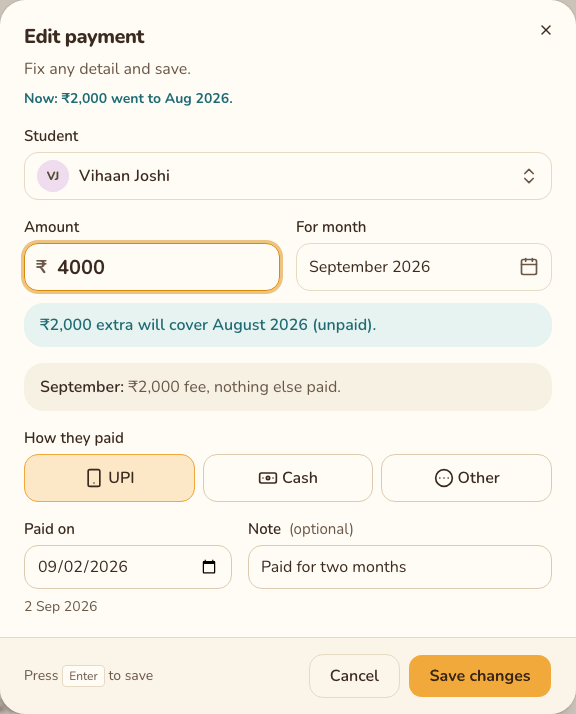
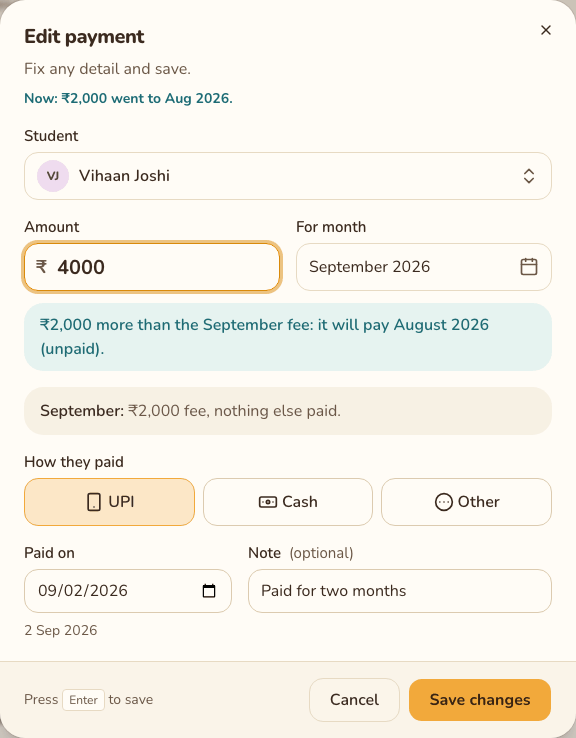
docs: the review's wording, the typo check, Collected explained, and an upgrade note

diff --git a/docs/feature-guide.md b/docs/feature-guide.md
@@ -153,12 +153,12 @@ arrow on each side. Under it, one line:
 
 **The four summary boxes** are all about the month at the top.
 
-![Four summary boxes: Expected ₹42,200 from 24 students in September; Collected ₹33,750 with a green bar at 80% of what's expected; Still due ₹8,450 in red, left to collect for September; Not fully paid 6 of 24, students to follow up with.](images/feature-guide/dashboard-summary.png)
+![Four summary boxes: Expected ₹42,200 from 24 students in September; Collected ₹33,750 with a green bar at 80% of what's expected and a small line '₹2,000 logged for September paid other months.'; Still due ₹8,450 in red, left to collect for September; Not fully paid 6 of 24, students to follow up with.](images/feature-guide/dashboard-summary.png)
 
 | Box | What the number means | How it's worked out |
 |---|---|---|
 | **Expected** | What everyone enrolled that month should pay in total | Each student's fee for that month, added up, for everyone enrolled that month. "From 24 students in September" says how many of them have a fee that month (someone on a month off, or with a free place, isn't counted) |
-| **Collected** | What has come in for that month so far | What pays that month, added up, whatever day it was paid on: payments logged *for* that month (up to each fee), plus money paid above the fee in another month that went to this one (see [extra money](#extra-money-pays-the-months-still-owed)). The bar and percentage compare it with Expected (the bar stops at 100%) |
+| **Collected** | What has come in for that month so far | What pays that month, added up, whatever day it was paid on: payments logged *for* that month (up to each fee), plus money paid above the fee in another month that went to this one (see [extra money](#extra-money-pays-the-months-still-owed)). The bar and percentage compare it with Expected (the bar stops at 100%). When that differs from what was logged for the month, a small line under it says why: *"Includes ₹1,500 of extra money from other months' payments."*, *"₹1,500 logged for September paid other months."* |
 | **Still due** | What's still left to collect for that month | For each enrolled student, their fee minus what pays it (never below ₹0), added up. Red while anything is left, green at ₹0 |
 | **Not fully paid** | How many students haven't paid that month in full | The number of names in *Yet to pay*, "of" the number of students with a fee that month. Green with "Everyone has paid" at 0 |
 
@@ -189,12 +189,18 @@ Each row shows the total they owe from those months and one label per month: red
 with nothing paid, amber with *"· part paid"* for a month partly paid. Hover over a label to see
 what's left on it (*June 2026: ₹1,200 left*). Click a row to open the student's profile.
 
-**Extra money used** appears when money paid above a fee went to another month, in or out of
-the month at the top (see [extra money](#extra-money-pays-the-months-still-owed)). Each row
-says whose, how much, and which payment it came from: *Vihaan Joshi · ₹2,000 extra from the 2
-Sep 2026 payment for Sep 2026 → **Aug 2026***. In the picture, Vihaan paid ₹4,000 for
-September and nothing for August: August is paid with September's extra, so he isn't in
-*Earlier months still owed*. Click a row to open the profile.
+**Extra money used** (*"Money that paid a different month than it was logged for."*) appears
+when money paid above a fee went to another month, in or out of the month at the top (see
+[extra money](#extra-money-pays-the-months-still-owed)). There is one row per payment, however
+many months it paid; months in a row are shown as a range. Each row says whose, how much, and
+which payment it came from: *Vihaan Joshi · ₹2,000 extra from the 2 Sep 2026 payment for Sep
+2026 → **Aug 2026***. In the picture, Vihaan paid ₹4,000 for September and nothing for August:
+August is paid with September's extra, so he isn't in *Earlier months still owed*. Click a row
+to open the profile.
+
+A payment that pays three or more other months, or is three times its fee or more, gets an
+amber line in case it's a slip of the finger: *"Check: this ₹45,000 payment pays up to Sep
+2028"* (with *→ Oct 2026 to Sep 2028* on the right). If it's right, there's nothing to do.
 
 **Extra kept as credit** appears only when someone paid more than every fee they owe, so no
 month needed the money (usually someone who has left): *May 2026 · paid ₹2,500, fee ₹2,000*,
@@ -363,21 +369,23 @@ profile."*
 **Note (optional):** anything you want to remember, for example *"paid by grandmother"*.
 
 **Where extra money will go.** If the amount is more than what's left of the month's fee, a
-teal line under the amount says what the extra will pay, before you save (see
-[extra money](#extra-money-pays-the-months-still-owed)): *"₹1,200 extra will cover June 2026
-(unpaid)."* It names each month, oldest first: *(unpaid)* or *(part paid)* for a month owed,
-*(paid ahead)* for a later one. A long run is shortened (*"9 months ahead (November 2026 to
-July 2027)"*). If nothing is owed anywhere, it says the money *"will be kept as credit"*. It
-never stops you saving.
+teal line under the amount says what this payment's extra will pay, before you save (see
+[extra money](#extra-money-pays-the-months-still-owed)): *"₹1,200 more than the September fee:
+it will pay June 2026 (unpaid)."* It names each month, oldest first: *(unpaid)* or *(part
+paid)* for a month owed, then months *ahead*. A long run is shortened (*"9 months ahead
+(November 2026 to July 2027)"*). If nothing is owed anywhere, it says the money *"will be kept
+as credit"*. The amounts are exactly what the payment's row will say once saved. It never stops
+you saving.
 
-<img src="images/feature-guide/log-payment-extra.png" alt="The form for Arjun Menon, for September 2026, with ₹2400 typed, and under the amount, in teal: '₹1,200 extra will cover June 2026 (unpaid).'" width="420">
+<img src="images/feature-guide/log-payment-extra.png" alt="The form for Arjun Menon, for September 2026, with ₹2400 typed, and under the amount, in teal: '₹1,200 more than the September fee: it will pay June 2026 (unpaid).'" width="420">
 
 **The large-amount check.** If the amount is **three times the month's fee or more**, the same
 line starts, in amber, *"That's much more than the ₹1,500 fee. Is it right?"*, in case of an
-extra zero, then says where the extra would go (*"If so, ₹13,500 extra will cover …"*). It never
-stops you saving.
+extra zero, and then says where the extra would go. It never stops you saving. If it's saved
+anyway, the profile and the Dashboard ask you to check it once more (see
+[Student profile](#student-profile)).
 
-<img src="images/feature-guide/log-payment-large-amount.png" alt="The form for Ananya Rao with ₹15000 typed for October 2026, and under the amount: in amber 'That's much more than the ₹1,500 fee. Is it right?', then in teal 'If so, ₹13,500 extra will cover 9 months ahead (November 2026 to July 2027).'" width="420">
+<img src="images/feature-guide/log-payment-large-amount.png" alt="The form for Ananya Rao with ₹15000 typed for October 2026, and under the amount: in amber 'That's much more than the ₹1,500 fee. Is it right?', then in teal '₹13,500 more than the October fee: it will pay 9 months ahead (November 2026 to July 2027).'" width="420">
 
 **The amount rules.** You can type the amount the way you'd write it:
 
@@ -426,7 +434,7 @@ cursor in **Amount**, so you can check it and press **Enter**. It opens this way
 2. Change the student, amount, month, method, date or note.
 3. Click **Save changes**. You'll see *"Payment updated"*.
 
-![The Edit payment form for Vihaan Joshi: 'Now: ₹2,000 went to Aug 2026.' under the title, Amount ₹4000, For month September 2026, a teal line '₹2,000 extra will cover August 2026 (unpaid).', 'September: ₹2,000 fee, nothing else paid.', method UPI, paid on 2 Sep 2026, note 'Paid for two months', with Save changes.](images/feature-guide/edit-payment.png)
+![The Edit payment form for Vihaan Joshi: 'Now: ₹2,000 went to Aug 2026.' under the title, Amount ₹4000, For month September 2026, a teal line '₹2,000 more than the September fee: it will pay August 2026 (unpaid).', 'September: ₹2,000 fee, nothing else paid.', method UPI, paid on 2 Sep 2026, note 'Paid for two months', with Save changes.](images/feature-guide/edit-payment.png)
 
 When editing, a teal line under the title says what the payment does now, if some of it pays
 another month (*"Now: ₹2,000 went to Aug 2026."*). The line about the month leaves out the
@@ -470,9 +478,11 @@ saving.
   reads the amount with `parseRupees` to tell "too big" from "not an amount") and
   `lib/format.ts` (`rupeesToPaise`, `MAX_AMOUNT_PAISE`, `MONTHS_AHEAD`). Enter on a method
   button is `onMethodKeyDown`. The extra-money line is `previewPayment` in `lib/allocation.ts`
-  (a copy of `ledger.allocate`: the difference the payment makes to the student's other
-  payments) and `previewText` in `lib/credit.ts`; the month line comes from the same
-  allocation, without the payment being edited.
+  (a copy of `ledger.allocate`, run with the new payment added; it reports that payment's own
+  `extra_sent` and credit, as its row will say once saved) and `previewText` in
+  `lib/credit.ts`; the month line comes from the same allocation, without the payment being
+  edited. The profile and dashboard "Check: …" lines come from `needs_check` /
+  `payment_needs_check` (`ledger.needs_check`) and `checkText`.
 - **API:** `GET /api/students/{id}/suggest-payment` (`suggestPayment`) → `SuggestedPayment`
   (`reason`: `owed` / `next_unpaid` / `all_paid`); `GET /api/students/{id}` (`getStudent`) for
   the month facts, the fee and the month limits; `GET /api/students?status=all`
@@ -561,7 +571,8 @@ The month filter goes by the month a payment is **for**, not the day it was paid
 and it leaves out cash paid in September for other months. It isn't a count of the cash you
 received during September. The total adds up payments exactly as they were logged, so a
 payment whose extra went to another month counts in full here; the Dashboard's **Collected**
-counts that extra in the month it paid.
+counts that extra in the month it paid. With a month chosen, the last row says so: *"₹6,600
+total (as logged; ₹1,500 of it paid other months)"*.
 
 **Fix a payment**
 1. Click **Edit** on its row. The [Edit payment](#log-payment-and-edit-payment) form opens.
@@ -903,6 +914,9 @@ Under the headline:
 - one plain sentence: *"4 months not fully paid."*, *"Paid ₹500 more than every fee owed."*,
   *"Everything due is paid, and ahead to October 2026."* (a month with no fee in between
   doesn't stop the count) or *"Everything due so far has been paid."*;
+- if a payment may be a slip of the finger (it pays three or more other months, or is three
+  times its fee or more), an amber line for each: *"Check: this ₹15,000 payment pays up to Jun
+  2027"*, with **Edit payment**. If it's right, there's nothing to do;
 - if they owe, an **Oldest unpaid** box (*June 2026 · ₹1,200 left*) with **Log payment**;
 - if they have credit, a box **₹500 kept as credit** listing the payment it's in (*₹2,500 paid
   for Jul 2026, after they left · ₹500 of it not needed*), with **Edit payment**, and *"Extra
@@ -942,7 +956,7 @@ directly or with extra money).
 |---|---|
 | **Month** | The month |
 | **Fee** | The fee for that month (— if none was due) |
-| **Paid** | Everything logged for that month, exactly as typed (— if nothing) |
+| **Paid** | Everything logged for that month, exactly as typed. A month paid only by another payment's extra shows it in teal, *₹1,500 (credit)*; one paid by both shows *+ ₹700 credit* under the amount; — if nothing |
 | **Status** | A label (below), plus *₹600 left* for a part-paid month or *₹500 kept as credit*. Under it, a teal note for money that moved (see below) |
 | *(button)* | **Log payment** on a month still owed; **Edit payment** on a month with money kept as credit |
 
@@ -951,9 +965,10 @@ oldest month still owed (see [extra money](#extra-money-pays-the-months-still-ow
 months say so:
 - the month it paid: **Paid** (or **Partial**, if it paid only part), with *₹2,000 credit from
   the 2 Sep 2026 payment (for Sep 2026)*: how much, which payment, and the month that payment
-  was logged for. Its **Paid** column shows only what was logged for it, so a month paid
-  entirely with credit shows **—** there;
-- the month the payment was for: *₹2,000 extra → Aug 2026*, one note for each month it paid.
+  was logged for (payments made the same day for the same month are added together). Its
+  **Paid** column shows *₹2,000 (credit)* in teal;
+- the month the payment was for: *₹2,000 extra → Aug 2026*, with months in a row as a range
+  (*₹36,000 extra → Oct 2026 to Sep 2028*).
 
 ![Vihaan Joshi's Month by month: September 2026, fee ₹2,000, paid ₹4,000, Paid, with the note '₹2,000 extra → Aug 2026'; August 2026, fee ₹2,000, paid —, Paid, with the note '₹2,000 credit from the 2 Sep 2026 payment (for Sep 2026)'.](images/feature-guide/profile-credit-used.png)
 
@@ -1183,7 +1198,8 @@ The same word always has the same colour, everywhere in the app.
 | **… credit from the … payment (for …)** | Teal note | Profile *Month by month*; the Log payment form | Extra money from another month's payment that pays this month: "₹2,000 credit from the 2 Sep 2026 payment (for Sep 2026)" |
 | **… extra → …** | Teal note | Profile *Month by month* | Where this month's money above its fee went: "₹2,000 extra → Aug 2026" |
 | **… went to …** | Teal line | Payments page and the profile's *Payments*; "Now: …" in Edit payment | Where a payment's money above its month's fee went: "₹2,000 went to Aug 2026" |
-| **Extra money used** | Teal arrow (→ Aug 2026) | The Dashboard section of that name | Extra money that moved into or out of the month you're looking at |
+| **Extra money used** | Teal arrow (→ Aug 2026) | The Dashboard section of that name | Money that paid a different month than it was logged for, into or out of the month you're looking at |
+| **Check: this ₹X payment …** | Amber | Profile Balance card; Dashboard *Extra money used* | A payment that pays three or more other months, or is three times its fee or more: worth a glance in case of a typo. Nothing to do if it's right |
 | **Overpaid** | — | Not shown as a word. The app says **Paid extra** or **kept as credit** instead | Some of a month's money wasn't needed by any month (the rules' name for it) |
 | **Paid extra** | Teal, with a + | Profile *Month by month* | A month holding money that no month needed: it's kept as credit (the row also says "₹500 kept as credit") |
 | **Extra kept as credit** | Teal amounts (+₹500) | The Dashboard section of that name (shown only when there is some) | Every month holding credit, up to the one you're looking at |
@@ -1234,7 +1250,8 @@ Just **log it once**, with the whole amount:
 1. Click **Log payment** as usual. Leave **For month** on the month the form suggests (or the
    month they said it's for).
 2. Type the whole amount, for example ₹3,000 for two ₹1,500 months. The teal line under it
-   says where the extra goes: *"₹1,500 extra will cover August 2026 (unpaid)."*
+   says where the extra goes: *"₹1,500 more than the September fee: it will pay August 2026
+   (unpaid)."*
 3. Click **Save payment**.
 
 Both months now show **Paid**; the one paid with the extra says which payment it came from. See
@@ -1420,6 +1437,12 @@ Open their profile and look at **Month by month** to see which month shows as ow
   to how records are kept: what you typed in is never changed or removed, and before each new
   version is released it's checked against records saved by every earlier version. See
   [Updating](runbooks/update.md). The version you have is at the bottom of the side menu.
+
+  > **After the update that brings "extra money pays the months still owed":** nothing you
+  > typed changes, but money already recorded above a month's fee now pays the oldest months
+  > still owed, by itself. So some students' status may change (for example from **Owes** to
+  > **Up to date**). Glance at the Students page afterwards. If you had already sorted out a
+  > "Paid too much" by hand (by editing the payment), it stays as you left it.
 - **Deleting is for good.** Deleted payments and students can't be brought back from inside
   the app, which is why it always asks first. The daily backup is the safety net: see
   [troubleshooting](runbooks/troubleshooting.md#i-deleted-something-by-mistake).

diff --git a/docs/data-model.md b/docs/data-model.md
@@ -124,9 +124,9 @@ creates nothing, so it answers 200). `DELETE` answers 204 with no body.
 | `LedgerMonth` | `month`, `expected_paise`, `paid_paise` (everything logged for the month, as typed), `paid_direct_paise` (the part of it that pays this month: at most the fee), `covered_by_credit_paise` (extra money from payments logged for other months that pays it), `credit_sources[]` (`CreditSource`: where that came from), `extra_sent[]` (`ExtraSent`: where this month's money above its fee went, one per month, oldest first), `extra_unused_paise` (this month's money no month needed: credit), `remaining_paise` (`max(0, expected − paid_direct − covered_by_credit)`), `excess_paise` (`max(0, paid − expected)` = Σ `extra_sent` + `extra_unused_paise`), `status`, `is_due` (month ≤ current month) |
 | `CreditSource` | `payment_id`, `paid_on`, `for_month` (the month that payment was logged for), `amount_paise` (how much of it pays this month) |
 | `ExtraSent` | `to_month`, `amount_paise` |
-| `PaymentRead` | `id`, `student_id`, `student_name`, `amount_paise`, `paid_on`, `for_month`, `method`, `note`, `paid_direct_paise` (the part that pays `for_month`), `extra_sent[]` (`ExtraSent`: the rest, paying other months, oldest first), `extra_unused_paise` (credit), `created_at`, `updated_at`. Always `amount = paid_direct + Σ extra_sent + extra_unused` |
-| `DashboardResponse` | `month`, `summary` (`expected_paise`, `collected_paise` (what pays M: Σ `paid_direct + covered_by_credit` for M over every student), `paid_ahead_paise` (for a month after the current one, the same as `collected_paise`; 0 otherwise), `still_due_paise`, `not_fully_paid_count`, `active_student_count`), `current_month`, `yet_to_pay[]` (each with `paid_paise`, `covered_by_credit_paise` and `credit_paise`), `backlog[]` (each with `months[]` (`BacklogMonth`, with `covered_by_credit_paise`), `total_owed_paise` and `credit_paise`), `overpaid[]` (`OverpaidItem`: months holding credit, with `batch_label`, `phone`, `excess_paise` and `extra_unused_paise`) and `credit_moves[]` (`CreditMoveItem`) |
-| `CreditMoveItem` | Extra money moved into or out of M: `student_id`, `student_name`, `batch_label`, `phone`, `payment_id`, `paid_on`, `from_month` (the month the payment was logged for), `to_month` (the month it pays), `amount_paise`. One of the two months is M. Sorted by student name, then `to_month`, then the payment's `(paid_on, id)` |
+| `PaymentRead` | `id`, `student_id`, `student_name`, `amount_paise`, `paid_on`, `for_month`, `method`, `note`, `paid_direct_paise` (the part that pays `for_month`), `needs_check` (worth a glance in case of a typo: it pays 3 or more other months, or it's 3× its month's fee or more; `ledger.needs_check`), `extra_sent[]` (`ExtraSent`: the rest, paying other months, oldest first), `extra_unused_paise` (credit), `created_at`, `updated_at`. Always `amount = paid_direct + Σ extra_sent + extra_unused` |
+| `DashboardResponse` | `month`, `summary` (`expected_paise`, `collected_paise` (what pays M: Σ `paid_direct + covered_by_credit` for M over every student), `paid_ahead_paise` (for a month after the current one, the same as `collected_paise`; 0 otherwise), `still_due_paise`, `not_fully_paid_count`, `active_student_count`, `logged_paise` (every payment logged for M, as typed: the Payments page's total for M), `covered_by_credit_paise` (the part of `collected_paise` from other months' payments), `sent_elsewhere_paise` (the part of `logged_paise` that paid other months)), `current_month`, `yet_to_pay[]` (each with `paid_paise`, `covered_by_credit_paise` and `credit_paise`), `backlog[]` (each with `months[]` (`BacklogMonth`, with `covered_by_credit_paise`), `total_owed_paise` and `credit_paise`), `overpaid[]` (`OverpaidItem`: months holding credit, with `batch_label`, `phone`, `excess_paise` and `extra_unused_paise`) and `credit_moves[]` (`CreditMoveItem`) |
+| `CreditMoveItem` | Extra money moved into or out of M: `student_id`, `student_name`, `batch_label`, `phone`, `payment_id`, `paid_on`, `from_month` (the month the payment was logged for), `to_month` (the month it pays), `amount_paise`, `payment_amount_paise` (the whole payment), `payment_pays_until` (the latest month the payment pays: `ledger.pays_until`), `payment_needs_check`. One per payment and month (the UI groups them by payment); one of the two months is M. Sorted by student name, then `to_month`, then the payment's `(paid_on, id)` |
 | `SuggestedPayment` | `for_month` (nullable), `amount_paise` (nullable), `reason` |
 | `StudentReturn` (request) | `from_month`, `monthly_fee_paise` (optional) |
 | `HealthResponse` | `app`, `version`, `status` |
@@ -291,6 +291,23 @@ the edges.
   `yet_to_pay[].credit_paise` and `backlog[].credit_paise` are 0 in practice (kept so the shape
   didn't change).
 
+- **`tenure_months`** is how long they have been (or were) a student. Still coming: whole
+  months since joining, `current_month − joined_month` (joined in August, now September: 1; 0
+  in the joining month and before it, when the UI says "New this month" or "Starts …"). Left
+  (`left_month` before the current month): the months enrolled, both ends counted,
+  `left_month − joined_month + 1` (March to June: 4; joined and left in May: 1).
+- **Current fee (`monthly_fee_paise`)** is the fee in effect this month, or in `joined_month`
+  for a student who hasn't joined yet.
+- **`is_active`** (and the `status=active|left` filter) is the PRD's ledger rule 8: true while
+  `left_month` is empty or `left_month ≥` the current month. A student leaving after December
+  is active through December and left from January. It depends on the current month, so it is
+  computed, never stored.
+- **Dashboard lists** are sorted by student name, ignoring case and accents. Overpaid rows are
+  oldest month first within a student.
+
+At this scale (hundreds of students, thousands of payments) computing it on every request is
+effectively instant.
+
 ### Credit allocation
 
 PRD ledger rule 10 ("extra money covers unpaid months"), in `ledger.allocate`. It is **computed,
@@ -333,22 +350,12 @@ Invariants (checked by property tests in `tests/test_allocation.py`):
   owed.
 
 Which months end up paid depends only on how much was logged for each month and in total, not
-on which payment it came from. The *Log payment* form uses that to preview a payment
-(`frontend/src/lib/allocation.ts`, a copy of the same rule, `previewPayment`): the difference
-between the student's payments with and without it.
-- **`tenure_months`** is how long they have been (or were) a student. Still coming: whole
-  months since joining, `current_month − joined_month` (joined in August, now September: 1; 0
-  in the joining month and before it, when the UI says "New this month" or "Starts …"). Left
-  (`left_month` before the current month): the months enrolled, both ends counted,
-  `left_month − joined_month + 1` (March to June: 4; joined and left in May: 1).
-- **Current fee (`monthly_fee_paise`)** is the fee in effect this month, or in `joined_month`
-  for a student who hasn't joined yet.
-- **`is_active`** (and the `status=active|left` filter) is the PRD's ledger rule 8: true while
-  `left_month` is empty or `left_month ≥` the current month. A student leaving after December
-  is active through December and left from January. It depends on the current month, so it is
-  computed, never stored.
-- **Dashboard lists** are sorted by student name, ignoring case and accents. Overpaid rows are
-  oldest month first within a student.
+on which payment it came from. The *Log payment* form previews a payment with a copy of the
+same rule (`frontend/src/lib/allocation.ts`, `previewPayment`): it allocates the student's
+payments with the new one added and shows what *that payment's own* money does (its
+`paid_direct`, `extra_sent` and `extra_unused`), exactly as its row will say once saved.
 
-At this scale (hundreds of students, thousands of payments) computing it on every request is
-effectively instant.
+**Needs a check.** `ledger.needs_check`: a payment that pays 3 or more other months, or is 3×
+the fee in effect for its month or more (`PaymentRead.needs_check`,
+`CreditMoveItem.payment_needs_check`). Extra money quietly pays months ahead, so an extra zero
+would otherwise just look paid ahead; the profile and the dashboard ask the owner to check it.

diff --git a/docs/product/prd.md b/docs/product/prd.md
@@ -193,7 +193,12 @@ These rules decide every number the app shows.
     from the 5 Sep 2026 payment (for Sep 2026)"), the month it came from lists every month it
     paid ("₹1,500 extra → Aug 2026"), the payment says it ("₹1,500 went to Aug 2026"), the
     dashboard lists it (*Extra money used*), and *Log payment* previews it before saving
-    ("₹1,500 extra will cover August 2026 (unpaid)").
+    ("₹1,500 more than the September fee: it will pay August 2026 (unpaid)", this payment's
+    own money, as its row will say once saved). A payment that pays three or more other months,
+    or is three times its month's fee or more, is flagged gently on the profile and the
+    dashboard ("Check: this ₹15,000 payment pays up to Jun 2027"), because a slip of the finger
+    would otherwise just look paid ahead. The dashboard's Collected card and a month's Payments
+    total say how they differ (money from, or to, other months).
 
     *Superseded:* until this change, payments were "kept exactly as typed": extra money was
     only shown as credit next to what was owed ("Paid ₹X extra in Jul 2026") for the owner to

diff --git a/docs/runbooks/daily-use.md b/docs/runbooks/daily-use.md
@@ -41,8 +41,10 @@ When everyone has paid, you'll see **Everyone's paid for** the month 🎉.
    or Other too.)
 
 If the amount is more than what's left of that month's fee, the form says where the extra will
-go, for example "₹1,500 extra will cover August 2026 (unpaid)". If it's much more than their
-fee, it asks "Is it right?" first, in case of an extra zero. You can still save it.
+go, for example "₹1,500 more than the September fee: it will pay August 2026 (unpaid)". If
+it's much more than their fee, it asks "Is it right?" first, in case of an extra zero. You can
+still save it; the student's profile then says "Check: this ₹15,000 payment pays up to …" so you
+can look again.
 
 That's it. The dashboard updates straight away. If you saved by mistake, click **Undo** in the
 message that appears.
